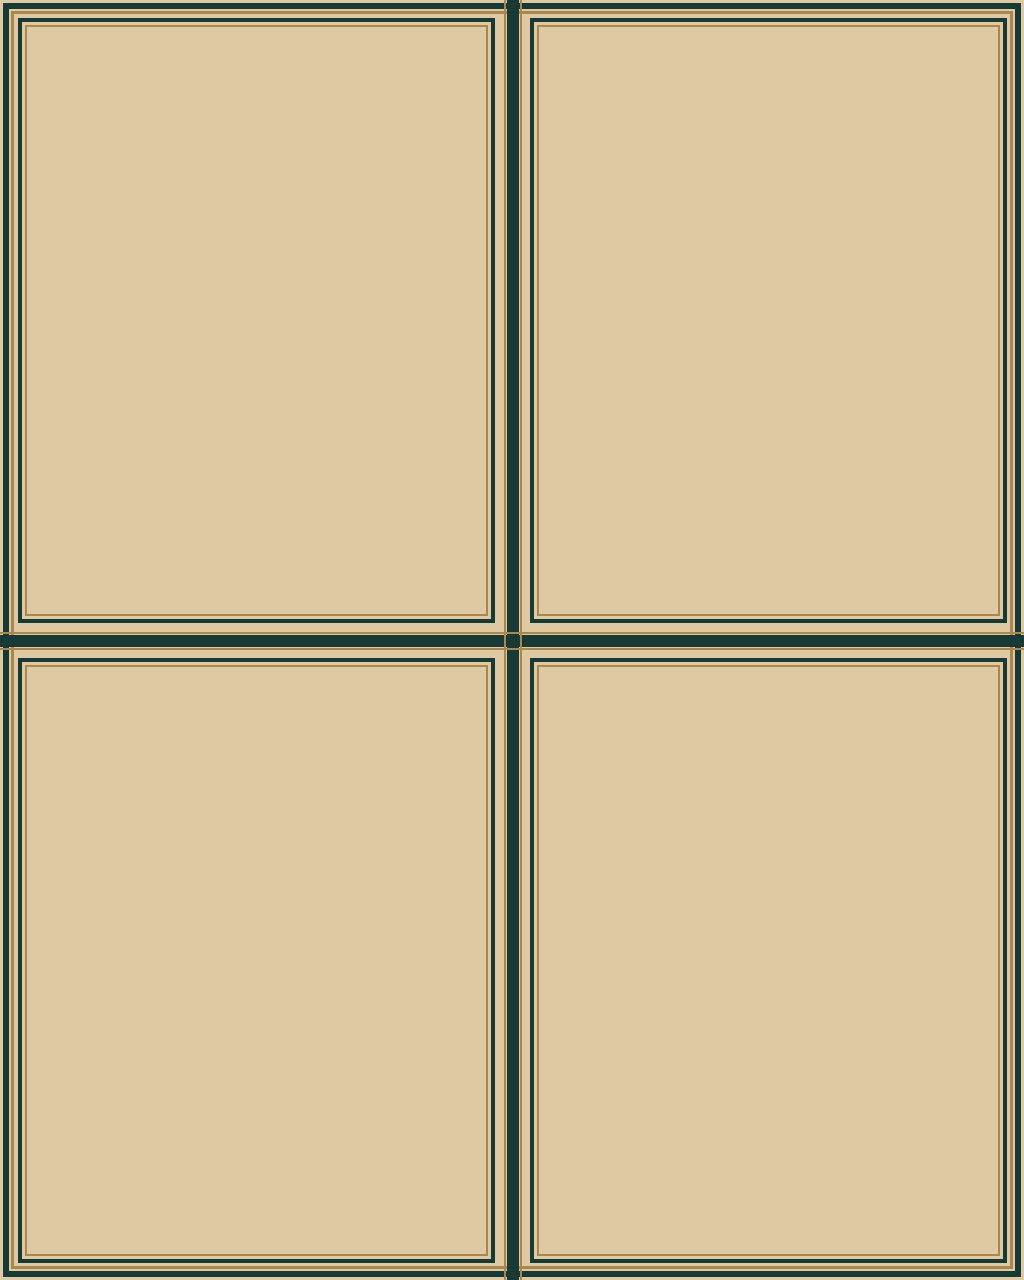
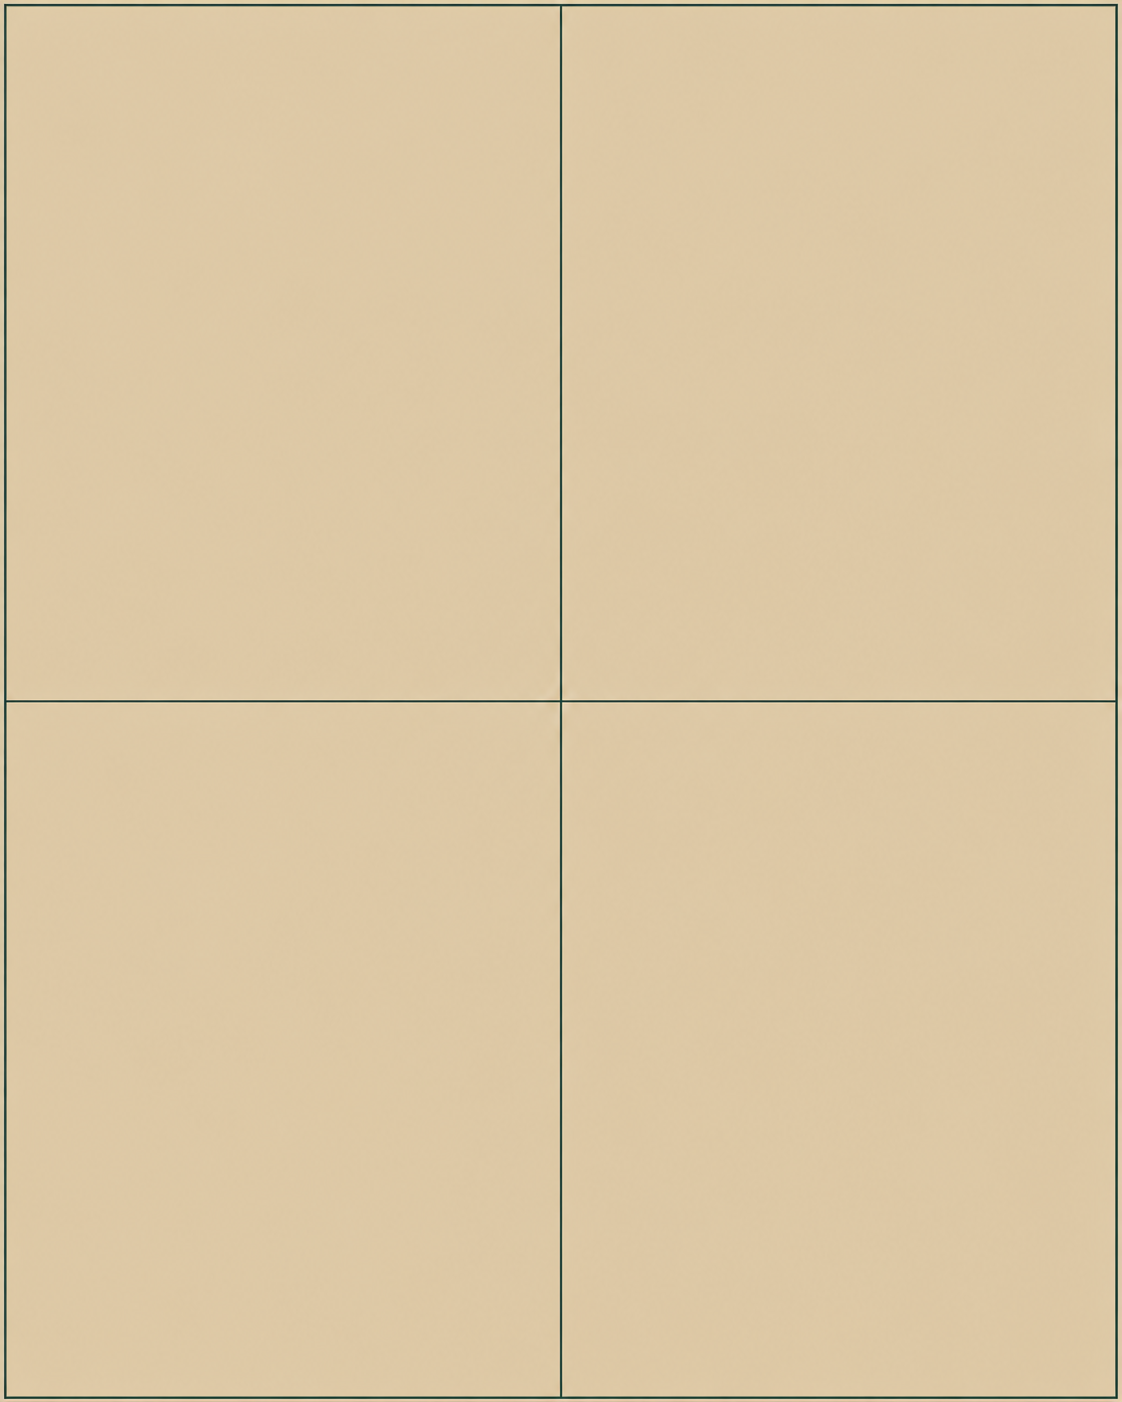
发布山海异志 v1.2.0

Changed region(s): [[0.0, 0.0, 1.0, 1.0]]

diff --git a/.codex/skills/generate-shanhaijing-creatures/references/style-and-board-prompt.md b/.codex/skills/generate-shanhaijing-creatures/references/style-and-board-prompt.md
@@ -7,10 +7,10 @@
 ```text
 Use case: stylized-concept
 Asset type: 《山海异志》网站异兽图鉴 2×2 批量母板
-Input image 1: EDIT TARGET. This is the mandatory 1024×1280 board template. Preserve its 4:5 canvas ratio, outer boundary, central vertical divider, central horizontal divider, and four equal 4:5 panel rectangles. Paint only inside the four panel interiors. A proportional whole-canvas pixel resample is acceptable; cropping, extending, removing dividers, or changing panel geometry is not.
-Input image 2: 仅作为画风参考。继承旧米黄宣纸、高密度手绘墨线、墨绿暗金重彩、传统连环画山水、卷云、回纹边框和民间异兽谱质感；不复制其角色、动作或文字。
+Input image 1: EDIT TARGET. This is the mandatory simplified 4:5 board template. Preserve its portrait 4:5 canvas ratio, one thin plain dark-green outer boundary, one thin plain dark-green central vertical divider, one matching horizontal divider, and four equal portrait 4:5 cells. Paint only inside the four cell interiors. A proportional whole-canvas pixel resample is acceptable; cropping, extending, removing dividers, adding borders, or changing panel geometry is not.
+Input image 2: 仅作为画风参考。继承旧米黄宣纸、高密度手绘墨线、墨绿暗金重彩、传统连环画山水、卷云、描金回纹细框、装饰角和民间异兽谱质感；不复制其角色、动作、文字或数字。
 
-Edit Input image 1 in place. The final image must remain exactly 1024×1280 pixels, portrait 4:5. Each of its four cells must remain exactly 512×640 pixels, portrait 4:5. Boundaries stay exactly at x=512 and y=640. No merged cells, overlaps, irregular collage, outer title, row labels, crop marks, text, numbers, seals, watermark, or UI. Keep every subject and decorative border at least 8% inside its own panel; nothing may cross a midpoint.
+Edit Input image 1 in place. The final image must remain portrait 4:5. Each of its four cells must remain portrait 4:5, with boundaries exactly at 50% canvas width and 50% canvas height. Preserve the template's minimal single-line dark-green outer boundary and dark-green center cross. Each cell may contain one restrained antique-gold key-pattern frame inset clearly inside the cell, with small decorative corner ornaments. Gold decoration must not touch or cover the center cross and must not create a gold separator, double border, stacked stripe, or multiple concentric frame. No merged cells, overlaps, irregular collage, outer title, row labels, crop marks, text, numbers, seals, watermark, or UI. Keep every subject and inset frame at least 8% inside its own cell; nothing may cross a midpoint.
 
 Panel order:
 TOP LEFT — 【名称 1】：【原文形貌、神能和环境】
@@ -18,7 +18,7 @@ TOP RIGHT — 【名称 2】：【原文形貌、神能和环境】
 BOTTOM LEFT — 【名称 3】：【原文形貌、神能和环境】
 BOTTOM RIGHT — 【名称 4】：【原文形貌、神能和环境】
 
-Unified style for all four panels: 清末彩绘异兽谱、工笔重彩与传统连环画结合；陈旧米黄宣纸，高密度墨线，粗重外轮廓与极细内部纹理；墨绿、暗金、赭石、低饱和朱砂矿物色；完整古典山水、松树、瀑布、卷云；墨绿描金回纹和如意云头边饰。四格必须像同一位画师在同一册书中完成，纸色、线条、饱和度、边框粗细和光线一致。
+Unified style for all four panels: 清末彩绘异兽谱、工笔重彩与传统连环画结合；陈旧米黄宣纸，高密度墨线，粗重外轮廓与极细内部纹理；墨绿、暗金、赭石、低饱和朱砂矿物色；完整古典山水、松树、瀑布、卷云；每格允许一层克制的描金回纹细框和小型装饰角。四格必须像同一位画师在同一册书中完成，纸色、线条、饱和度和光线一致。中心十字只能是底板已有的极细墨绿色单线，不得描金，不得增加平行线或多重分割线。
 
 Do not invent standard dragon horns, wings, claws, extra limbs, armor, or magical particles unless the source text explicitly requires them. No anime, game cards, 3D render, photography, neon, gore, modern objects, malformed anatomy, duplicate heads, or cropped bodies.
 ```

diff --git a/.codex/skills/generate-shanhaijing-creatures/SKILL.md b/.codex/skills/generate-shanhaijing-creatures/SKILL.md
@@ -17,7 +17,7 @@ description: Generate project-consistent Shanhaijing creature artwork economical
 
 - 风格规范：`docs/IMAGE_STYLE_GUIDE.md`
 - 风格参考：`.codex/skills/generate-shanhaijing-creatures/assets/style-reference.png`
-- 标准比例参考：`public/images/creature_zhulong_v01.png`
+- 标准比例参考：`public/images/creatures/creature_zhulong_v01.webp`
 - 强制母板模板：`.codex/skills/generate-shanhaijing-creatures/assets/board-template-4x5.png`
 - 批次记录：`artifacts/imagegen/<batch-id>/`
 - 网站图片：`public/images/creatures/`
@@ -55,7 +55,7 @@ artifacts/imagegen/<YYYYMMDD-HHMMSS>-<short-name>/
 
 ### 2. 生成严格 2×2 母板
 
-使用内置 `image_gen`，每块母板只调用一次。必须把 `board-template-4x5.png` 作为编辑底板，把风格图片标记为风格参考。要求模型保持底板的 4:5 画布、外框、中线和四格比例，只在四格内部绘画。允许 Image Gen 对整张底板做等比例像素重采样，但不得改变 4:5 比例或中线位置。不得只靠文字描述或普通比例参考生成空白母板。首次生成完成后立即停止生图，不得由执行者自行重生成整板。
+使用内置 `image_gen`，每块母板只调用一次。必须把 `board-template-4x5.png` 作为编辑底板，把风格图片标记为风格参考。要求模型保持底板的 4:5 画布、单线墨绿外框、单线墨绿中心十字和四格比例，只在四格内部绘画。每格允许生成一层向内缩进的描金回纹细框和装饰角，但金色装饰不得接触或覆盖中心十字，不得形成金色分割线或多重套框。允许 Image Gen 对整张底板做等比例像素重采样，但不得改变 4:5 比例或中线位置。不得只靠文字描述或普通比例参考生成空白母板。首次生成完成后立即停止生图，不得由执行者自行重生成整板。
 
 生成前递归记录 `C:\Users\liyuc\.codex\generated_images\` 的已有 PNG 及时间。生成后立即识别本次唯一新增文件，复制到当前批次的 `masters/board.png`。不要在多个生成任务完成后通过“最新图片”猜测文件。
 
@@ -63,7 +63,7 @@ artifacts/imagegen/<YYYYMMDD-HHMMSS>-<short-name>/
 
 - 整张画布必须与烛龙主图完全相同，为竖版 4:5；严格 2 列 × 2 行。生成提示词中写明 `exact portrait 4:5 canvas, same aspect ratio as the Zhulong reference, not 2:3 and not 5:8`。
 - 四个面板尺寸完全相等，分界线恰好位于宽、高的 1/2。
-- 使用细而均匀的旧纸色分隔线；不合并、不重叠、不做自由拼贴。
+- 外框和中心十字分隔线只使用细而均匀的墨绿色单线；每格内部允许一层向内缩进的描金回纹细框和装饰角，但不得出现描金中心分割线、双线或多重套框。
 - 每个面板自身也是 4:5，主体和边框完整。
 - 所有重要内容距离面板边缘至少 8%；不得跨越中线。
 - 四格不生成文字、数字、印章、标签、水印或 UI。

diff --git a/docs/IMAGE_STYLE_GUIDE.md b/docs/IMAGE_STYLE_GUIDE.md
@@ -15,7 +15,7 @@
 - 光源：古画式均匀散射光，主体只用墨线和色块塑造体积，禁止摄影棚高光与霓虹光。
 - 背景：完整的古典山水叙事场景，以云气、山石、松树、水瀑表现栖息地；细节浓度约为主体的 50%。
 - 边缘：主体外轮廓使用有粗细变化的强墨线，内部鳞片、毛发以密集细线刻画，整体带木版套色与手绘重彩质感。
-- 装饰：允许回纹、如意云头、墨绿描金边框；图像内部仍禁止生成文字，标题由前端叠加，确保准确。
+- 装饰：母板保留极细墨绿外框与中心十字分隔线；每格允许一层向内缩进的描金回纹细框、如意云头和小型装饰角。金色装饰不得接触中心十字，不得形成描金分割线或多重套框。标题由前端叠加。
 - 禁止在图内生成文字、印章、边框、图鉴 UI；这些内容由前端统一叠加。
 
 ## 3. 生物设计规则
@@ -37,7 +37,7 @@
 环境：【古籍所载地点及少量地貌】。
 神能表现：【通过天色、气候、植被等环境表现，不使用魔法特效】。
 
-视觉风格：清末彩绘异兽谱、工笔重彩与传统连环画结合，旧宣纸底，高密度墨线，墨绿描金，浓郁但陈旧的矿物色，强轮廓和细密内部刻画，完整古典山水场景，回纹与如意云头装饰，像一页精绘民间异兽册。竖版 4:5，全身三分之二侧面，主体占画面高度约 72%。
+视觉风格：清末彩绘异兽谱、工笔重彩与传统连环画结合，旧宣纸底，高密度墨线，墨绿与暗金矿物色，强轮廓和细密内部刻画，完整古典山水场景，像一页精绘民间异兽册。竖版 4:5，全身三分之二侧面，主体占画面高度约 72%。每格允许一层向内缩进的描金回纹细框和装饰角，但中心分割线只保留墨绿色单线。
 
 不要文字，不要印章，不要边框，不要 UI，不要现代物件，不要动漫，不要游戏卡牌，不要西方奇幻龙，不要霓虹光，不要塑料感 3D，不要对称摆拍，不要多余肢体，不要裁断主体。
 ```
@@ -52,7 +52,7 @@
 艺术推定：面容为非特定族群的古老中性人面，与蛇颈自然衔接；鳞片参考赤链蛇与蚺蛇，身体具有真实重量感。
 环境：钟山之下，北方荒寒山地。画面左侧为微明白昼，右侧为幽暗长夜；近处一侧草木结霜，另一侧有暑气与微红云霞。所有变化都来自它的睁眼、闭眼与呼吸，不出现法阵或粒子特效。
 
-视觉风格：清末彩绘异兽谱、工笔重彩与传统连环画结合，旧宣纸底，高密度墨线，墨绿、暗金、赭石和朱砂的陈旧矿物色，强轮廓与极细鳞片刻画。背景为云气缭绕的钟山、松树与山瀑，四角有墨绿描金回纹装饰，像一页精绘民间异兽册。竖版 4:5，全身三分之二侧面，巨大的蛇身盘绕但轮廓完整。
+视觉风格：清末彩绘异兽谱、工笔重彩与传统连环画结合，旧宣纸底，高密度墨线，墨绿、暗金、赭石和朱砂的陈旧矿物色，强轮廓与极细鳞片刻画。背景为云气缭绕的钟山、松树与山瀑，配一层克制的描金回纹细框和装饰角，像一页精绘民间异兽册。竖版 4:5，全身三分之二侧面，巨大的蛇身盘绕但轮廓完整。
 
 不要文字，不要印章，不要边框，不要 UI，不要动漫，不要游戏卡牌，不要西方恶龙，不要龙角，不要翅膀，不要爪，不要盔甲，不要霓虹，不要过度恐怖血腥，不要塑料感 3D，不要多余头部和肢体，不要裁断主体。
 ```

diff --git a/README.md b/README.md
@@ -2,7 +2,7 @@
 
 《山海经》异兽数字图鉴。工笔重彩风格的 AI 异兽图 + 可考据的古籍条目 + 方位示意舆图。
 
-当前版本：**v1.1.0**
+当前版本：**v1.2.0**
 
 ## 本地运行
 